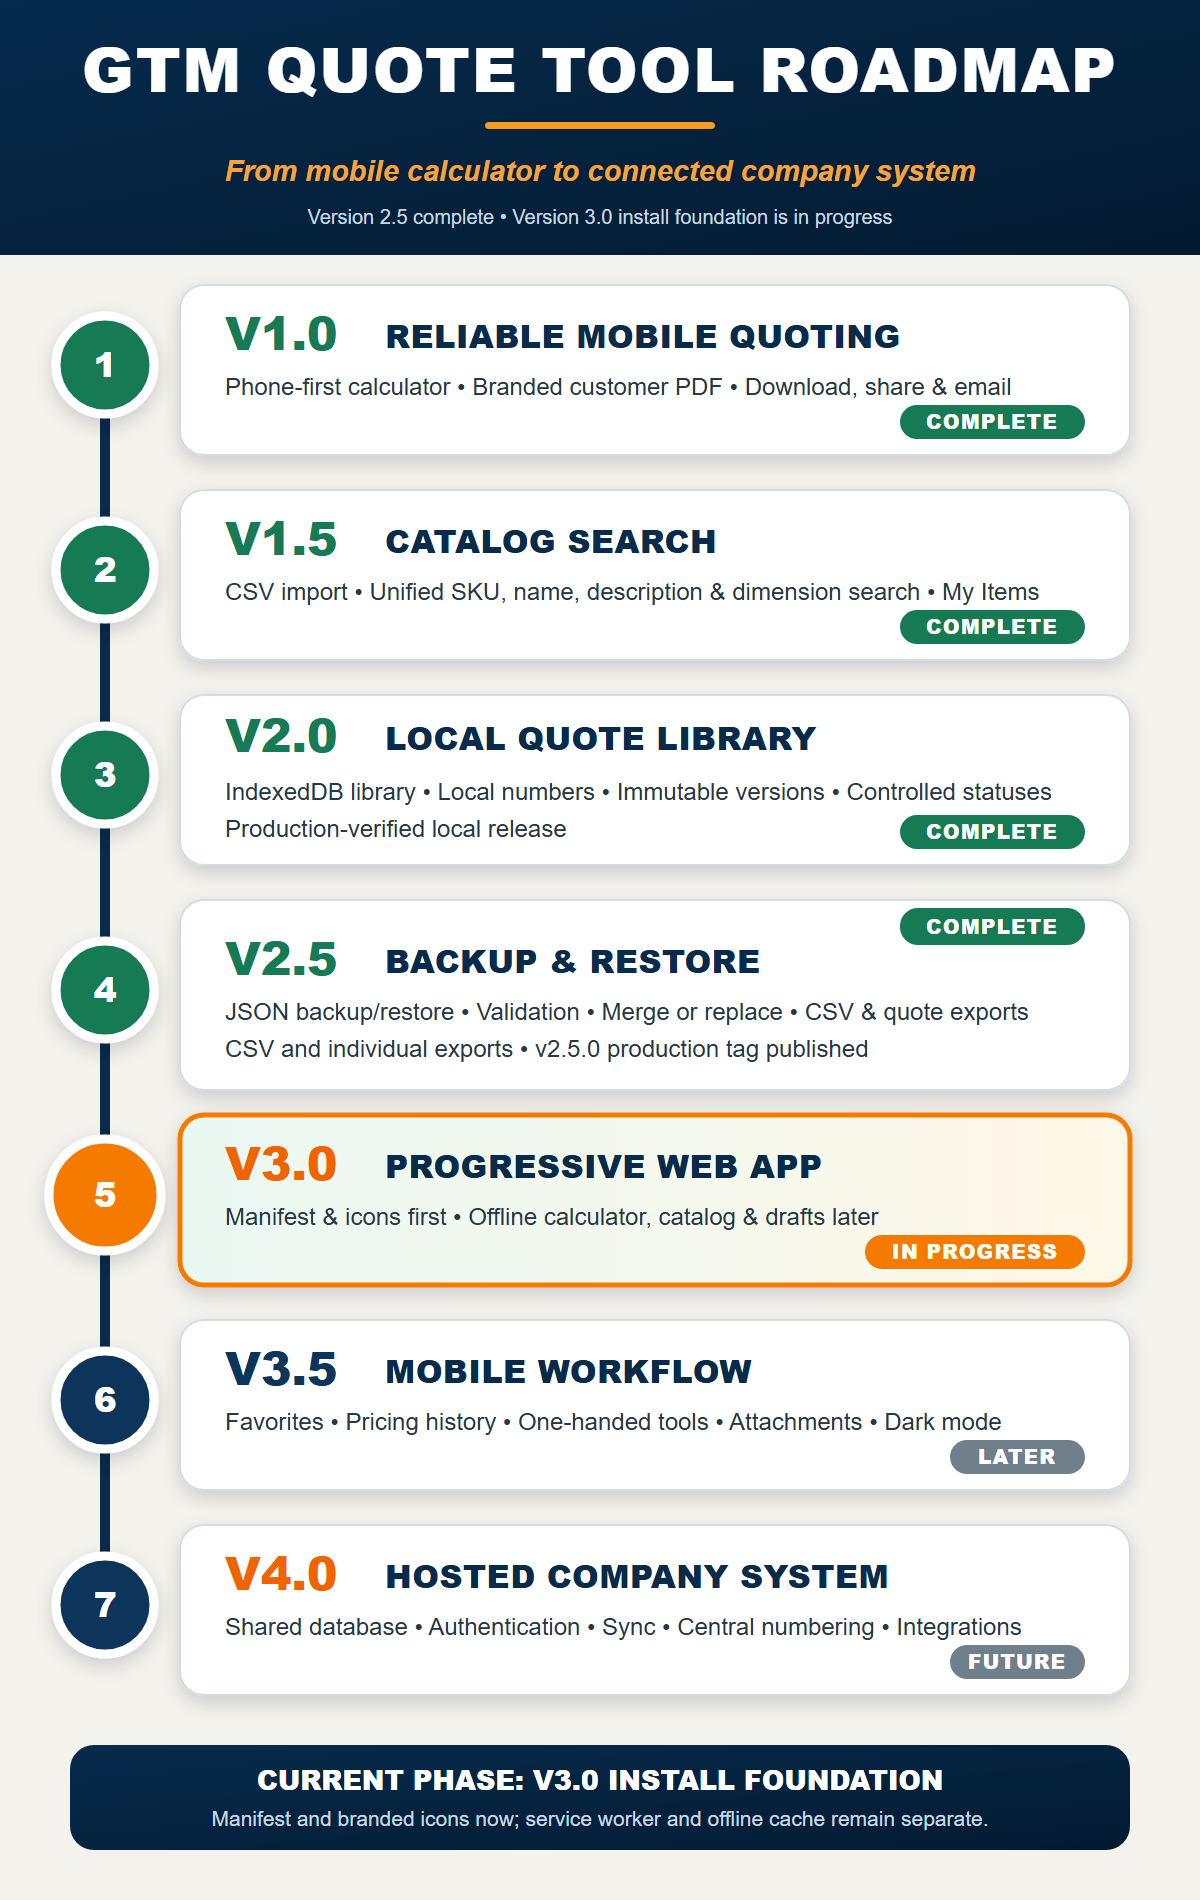
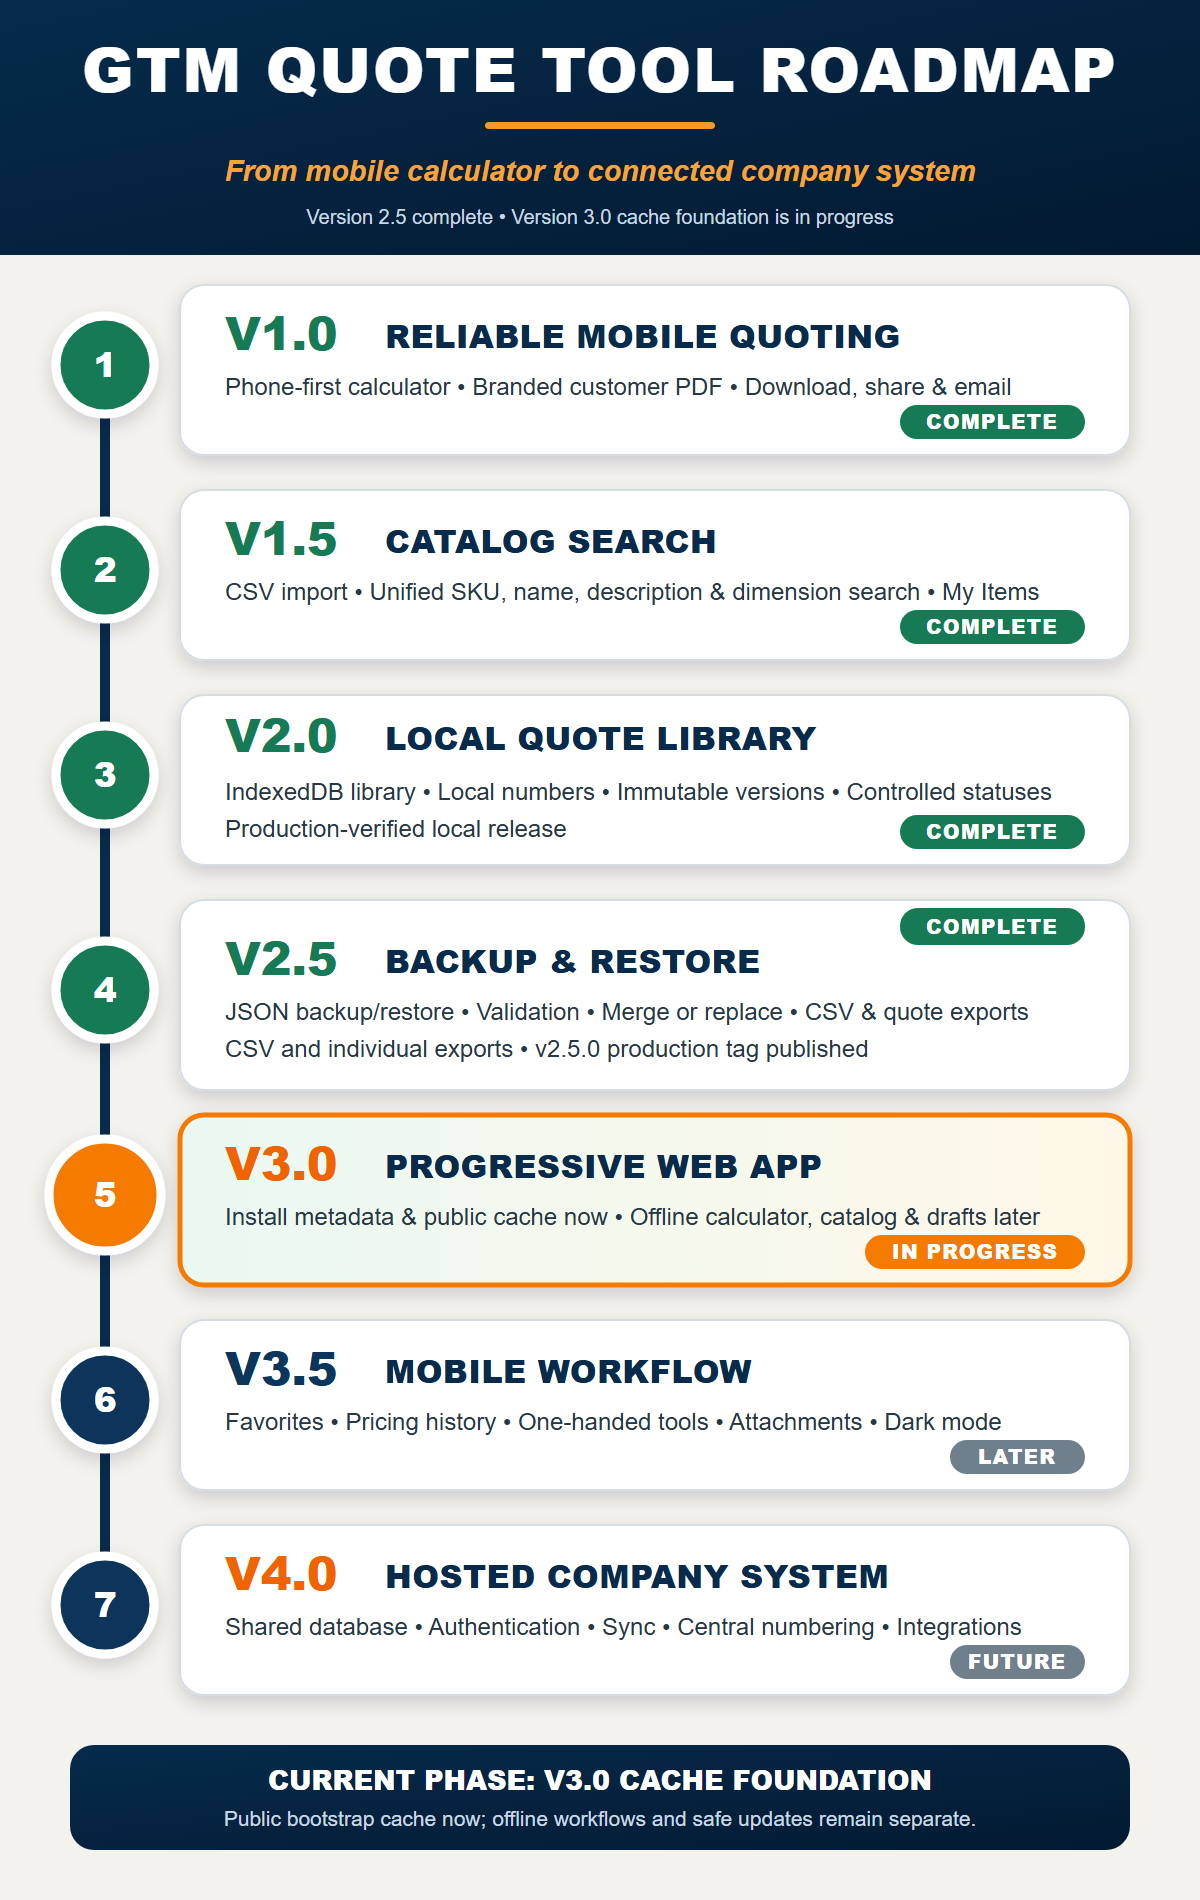
Add public service worker cache policy

diff --git a/tests/compat/quote-library-ui.spec.js b/tests/compat/quote-library-ui.spec.js
@@ -24,7 +24,7 @@ test('adds, saves, reloads, duplicates, searches, and recalls a local draft cust
   await fillQuoteCustomer(page);
   const library = await openLibrary(page);
   await library.locator('#addCurrentToLibrary').click();
-  await expect(library.locator('#quoteLibraryStatus')).toContainText('added as an unnumbered draft');
+  await expect(library.locator('#quoteLibraryStatus')).toContainText('added as an unnumbered draft', { timeout: 10000 });
   await expect(library.locator('.library-card h3')).toHaveText('Acme Packaging');
   expect(await page.evaluate(() => JSON.parse(localStorage.getItem('gtm_quote_calculator_v1')).customerName)).toBe('Acme Packaging');
   expect(await page.evaluate(() => document.documentElement.scrollWidth <= document.documentElement.clientWidth)).toBe(true);
@@ -131,7 +131,7 @@ test('warns instead of overwriting a library draft changed by another writer', a
   await fillQuoteCustomer(page, 'Conflict Test Customer');
   const library = await openLibrary(page);
   await library.locator('#addCurrentToLibrary').click();
-  await expect(library.locator('#quoteLibraryStatus')).toContainText('added as an unnumbered draft');
+  await expect(library.locator('#quoteLibraryStatus')).toContainText('added as an unnumbered draft', { timeout: 10000 });
   const quoteId = await library.locator('#addCurrentToLibrary').getAttribute('data-bound-quote-id');
   expect(quoteId).toBeTruthy();
 
@@ -169,13 +169,23 @@ test('confirms before Reopen discards dirty edits to the same draft', async ({ p
   await page.getByRole('button', { name: 'Quote', exact: true }).click();
   await page.locator('#buyerPhone').fill('916-555-9999');
   await openLibrary(page);
+  await expect(library.locator('#quoteLibrarySummary')).toContainText('unsaved', { timeout: 10000 });
 
-  page.once('dialog', (dialog) => dialog.dismiss());
+  await page.evaluate(() => {
+    document.body.dataset.reopenConfirmationAsked = 'false';
+    window.confirm = () => {
+      document.body.dataset.reopenConfirmationAsked = 'true';
+      return false;
+    };
+  });
   await library.getByRole('button', { name: 'Reopen' }).click();
+  expect(await page.locator('body').getAttribute('data-reopen-confirmation-asked')).toBe('true');
   await expect(page.locator('#quotesWorkspace')).toBeVisible();
   await expect(page.locator('#buyerPhone')).toHaveValue('916-555-9999');
 
-  page.once('dialog', (dialog) => dialog.accept());
+  await page.evaluate(() => {
+    window.confirm = () => true;
+  });
   await library.getByRole('button', { name: 'Reopen' }).click();
   await expect(page.locator('#quoteWorkspace')).toBeVisible();
   await expect(page.locator('#buyerPhone')).toHaveValue('916-555-0123');

diff --git a/tests/service-worker-cache-policy.test.js b/tests/service-worker-cache-policy.test.js
@@ -1,0 +1,61 @@
+import { afterEach, describe, expect, it, vi } from 'vitest';
+
+const workerPath = new URL('../sw.js', import.meta.url);
+
+async function loadWorker({ cacheNames = [] } = {}) {
+  const listeners = new Map();
+  const addAll = vi.fn().mockResolvedValue(undefined);
+  const remove = vi.fn().mockResolvedValue(true);
+
+  globalThis.self = {
+    addEventListener(type, listener) {
+      listeners.set(type, listener);
+    }
+  };
+  globalThis.caches = {
+    open: vi.fn().mockResolvedValue({ addAll }),
+    keys: vi.fn().mockResolvedValue(cacheNames),
+    delete: remove
+  };
+
+  await import(`${workerPath.href}?test=${crypto.randomUUID()}`);
+  return { listeners, addAll, remove };
+}
+
+afterEach(() => {
+  delete globalThis.self;
+  delete globalThis.caches;
+});
+
+describe('Version 3 application-shell cache policy', () => {
+  it('precaches only public static bootstrap assets and bypasses every fetch in this slice', async () => {
+    const { listeners, addAll } = await loadWorker();
+    const waitUntil = vi.fn();
+
+    listeners.get('install')({ waitUntil });
+    await waitUntil.mock.calls[0][0];
+
+    expect(addAll).toHaveBeenCalledWith(expect.arrayContaining([
+      '/gtm-calc/',
+      '/gtm-calc/manifest.webmanifest',
+      '/gtm-calc/assets/pwa/gtm-calc-192.png',
+      '/gtm-calc/assets/pwa/gtm-calc-maskable-512.png'
+    ]));
+    const cachedUrls = addAll.mock.calls[0][0].join('\n');
+    expect(cachedUrls).not.toMatch(/(?:\.pdf(?:$|\?)|\/backup(?:\/|$)|mailto:)/i);
+    expect(listeners.has('fetch')).toBe(false);
+  });
+
+  it('deletes only retired application-owned caches during activation', async () => {
+    const { listeners, remove } = await loadWorker({
+      cacheNames: ['gtm-calc-app-shell-v0', 'gtm-calc-app-shell-v1', 'third-party-cache']
+    });
+    const waitUntil = vi.fn();
+
+    listeners.get('activate')({ waitUntil });
+    await waitUntil.mock.calls[0][0];
+
+    expect(remove).toHaveBeenCalledTimes(1);
+    expect(remove).toHaveBeenCalledWith('gtm-calc-app-shell-v0');
+  });
+});

diff --git a/tests/release-metadata.test.js b/tests/release-metadata.test.js
@@ -6,13 +6,13 @@ function read(path) {
   return readFileSync(new URL(`../${path}`, import.meta.url), 'utf8');
 }
 
-const buildLabel = `v3.0.0 ${String.fromCharCode(0x00b7)} install-metadata.1`;
+const buildLabel = `v3.0.0 ${String.fromCharCode(0x00b7)} shell-cache.2`;
 
 describe('Version 3 development metadata', () => {
-  it('keeps the Version 3 install-metadata marker and package version aligned', () => {
+  it('keeps the Version 3 cache-policy marker and package version aligned', () => {
     const packageMetadata = JSON.parse(read('package.json'));
     expect(APP_BUILD_LABEL).toBe(buildLabel);
-    expect(packageMetadata.version).toBe('3.0.0-alpha.1');
+    expect(packageMetadata.version).toBe('3.0.0-alpha.2');
     expect(APP_RELEASE_VERSION).toBe(packageMetadata.version);
   });
 
@@ -22,11 +22,11 @@ describe('Version 3 development metadata', () => {
     expect(read('docs/CURRENT_STATE.md')).toContain(buildLabel);
     expect(read('docs/PRODUCT_ROADMAP.md')).toContain('Version 2.0 is complete');
     expect(read('docs/PRODUCT_ROADMAP.md')).toContain('Status (2026-08-06): Complete.');
-    expect(read('docs/PRODUCT_ROADMAP.md')).toContain('Status (2026-08-06): In progress.');
+    expect(read('docs/PRODUCT_ROADMAP.md')).toContain('Status (2026-08-07): In progress.');
     expect(read('docs/V2_IMPLEMENTATION_PLAN.md')).toContain('Status: complete.');
     expect(read('docs/V25_IMPLEMENTATION_PLAN.md')).toContain('Status: complete after owner acceptance');
     expect(read('build-docs/OPEN_ITEMS.md')).toContain('Version 2.5 backup and restore');
-    expect(read('docs/assets/gtm-quote-tool-roadmap.svg')).toContain('CURRENT PHASE: V3.0 INSTALL FOUNDATION');
+    expect(read('docs/assets/gtm-quote-tool-roadmap.svg')).toContain('CURRENT PHASE: V3.0 CACHE FOUNDATION');
     expect(read('docs/assets/gtm-quote-tool-roadmap.svg')).toContain('IN PROGRESS');
   });
 });

diff --git a/tests/service-worker-registration.test.js b/tests/service-worker-registration.test.js
@@ -1,0 +1,45 @@
+import { describe, expect, it, vi } from 'vitest';
+import {
+  SERVICE_WORKER_SCOPE,
+  SERVICE_WORKER_URL,
+  canRegisterServiceWorker,
+  registerApplicationServiceWorker
+} from '../js/pwa/service-worker-registration.js';
+
+describe('service-worker registration', () => {
+  it('uses the GitHub Pages scope and bypasses unsupported browsers', async () => {
+    expect(SERVICE_WORKER_SCOPE).toBe('/gtm-calc/');
+    expect(SERVICE_WORKER_URL).toBe('/gtm-calc/sw.js');
+    expect(canRegisterServiceWorker({})).toBe(false);
+    await expect(registerApplicationServiceWorker({ navigatorReference: {} })).resolves.toEqual({
+      registered: false,
+      reason: 'unsupported'
+    });
+  });
+
+  it('registers without blocking normal application use when the browser supports workers', async () => {
+    const registration = { scope: 'https://example.test/gtm-calc/' };
+    const register = vi.fn().mockResolvedValue(registration);
+
+    await expect(registerApplicationServiceWorker({
+      navigatorReference: { serviceWorker: { register } }
+    })).resolves.toEqual({ registered: true, registration });
+
+    expect(register).toHaveBeenCalledWith('/gtm-calc/sw.js', {
+      scope: '/gtm-calc/',
+      updateViaCache: 'none'
+    });
+  });
+
+  it('reports registration errors without throwing', async () => {
+    const error = new Error('blocked');
+    const warn = vi.fn();
+
+    await expect(registerApplicationServiceWorker({
+      navigatorReference: { serviceWorker: { register: vi.fn().mockRejectedValue(error) } },
+      logger: { warn }
+    })).resolves.toMatchObject({ registered: false, reason: 'failed', error });
+
+    expect(warn).toHaveBeenCalledOnce();
+  });
+});

diff --git a/tests/source-pages/direct-source.spec.js b/tests/source-pages/direct-source.spec.js
@@ -20,10 +20,18 @@ test('runs the untransformed GitHub Pages source tree at the repository base pat
   const manifest = await manifestResponse.json();
   expect(manifest.start_url).toBe('/gtm-calc/');
   expect(manifest.scope).toBe('/gtm-calc/');
-  expect(await page.evaluate(async () => {
-    if (!('serviceWorker' in navigator)) return [];
-    return (await navigator.serviceWorker.getRegistrations()).map((registration) => registration.scope);
-  })).toEqual([]);
+  const serviceWorker = await page.evaluate(async () => {
+    if (!('serviceWorker' in navigator)) return null;
+    const registration = await navigator.serviceWorker.ready;
+    const cacheNames = await caches.keys();
+    const shellCache = await caches.open(cacheNames.find((name) => name.startsWith('gtm-calc-app-shell-')));
+    const cachedPaths = (await shellCache.keys()).map((request) => new URL(request.url).pathname);
+    return { scope: new URL(registration.scope).pathname, cacheNames, cachedPaths };
+  });
+  expect(serviceWorker).toMatchObject({ scope: '/gtm-calc/' });
+  expect(serviceWorker.cacheNames).toContain('gtm-calc-app-shell-v1');
+  expect(serviceWorker.cachedPaths).toContain('/gtm-calc/manifest.webmanifest');
+  expect(serviceWorker.cachedPaths.join('\n')).not.toMatch(/(?:\.pdf(?:$|\?)|\/backup(?:\/|$)|mailto:)/i);
   await expect(page.locator('#appNavigation [aria-current="page"]')).toHaveCount(1);
   await page.locator('#customerName').fill('Direct Source Customer');
   await page.getByRole('button', { name: 'Library', exact: true }).click();

diff --git a/tests/production/pages-build.spec.js b/tests/production/pages-build.spec.js
@@ -23,10 +23,18 @@ test('serves the production artifact from /gtm-calc/ and preserves core local be
   for (const icon of manifest.icons) {
     expect((await page.request.get(`./${icon.src}`)).ok()).toBe(true);
   }
-  expect(await page.evaluate(async () => {
-    if (!('serviceWorker' in navigator)) return [];
-    return (await navigator.serviceWorker.getRegistrations()).map((registration) => registration.scope);
-  })).toEqual([]);
+  const serviceWorker = await page.evaluate(async () => {
+    if (!('serviceWorker' in navigator)) return null;
+    const registration = await navigator.serviceWorker.ready;
+    const cacheNames = await caches.keys();
+    const shellCache = await caches.open(cacheNames.find((name) => name.startsWith('gtm-calc-app-shell-')));
+    const cachedPaths = (await shellCache.keys()).map((request) => new URL(request.url).pathname);
+    return { scope: new URL(registration.scope).pathname, cacheNames, cachedPaths };
+  });
+  expect(serviceWorker).toMatchObject({ scope: '/gtm-calc/' });
+  expect(serviceWorker.cacheNames).toContain('gtm-calc-app-shell-v1');
+  expect(serviceWorker.cachedPaths).toContain('/gtm-calc/manifest.webmanifest');
+  expect(serviceWorker.cachedPaths.join('\n')).not.toMatch(/(?:\.pdf(?:$|\?)|\/backup(?:\/|$)|mailto:)/i);
   await page.locator('#itemName').fill('Production carton');
   await page.locator('#quantity').fill('10');
   await page.locator('#unitCost').fill('1.25');

diff --git a/sw.js b/sw.js
@@ -1,0 +1,33 @@
+/* Version 3 PR 2: cache bootstrap only. Offline fetch handling arrives in PR 3. */
+const APP_SCOPE = '/gtm-calc/';
+const CACHE_PREFIX = 'gtm-calc-app-shell-';
+const CACHE_NAME = `${CACHE_PREFIX}v1`;
+
+// Only static, public application files belong here. Never add generated PDFs,
+// backups, mailto URLs, customer data, or application storage exports.
+const APP_SHELL_URLS = [
+  APP_SCOPE,
+  `${APP_SCOPE}manifest.webmanifest`,
+  `${APP_SCOPE}assets/pwa/gtm-calc-180.png`,
+  `${APP_SCOPE}assets/pwa/gtm-calc-192.png`,
+  `${APP_SCOPE}assets/pwa/gtm-calc-512.png`,
+  `${APP_SCOPE}assets/pwa/gtm-calc-maskable-512.png`
+];
+
+function isRetiredApplicationCache(cacheName) {
+  return cacheName.startsWith(CACHE_PREFIX) && cacheName !== CACHE_NAME;
+}
+
+if (typeof self !== 'undefined' && typeof self.addEventListener === 'function') {
+  self.addEventListener('install', (event) => {
+    event.waitUntil(caches.open(CACHE_NAME).then((cache) => cache.addAll(APP_SHELL_URLS)));
+  });
+
+  self.addEventListener('activate', (event) => {
+    event.waitUntil(
+      caches.keys().then((cacheNames) => Promise.all(
+        cacheNames.filter(isRetiredApplicationCache).map((cacheName) => caches.delete(cacheName))
+      ))
+    );
+  });
+}

diff --git a/tests/compat/quote-exports.spec.js b/tests/compat/quote-exports.spec.js
@@ -4,7 +4,7 @@ test.describe('Version 2.5 reporting exports in supported browsers', () => {
   test('keeps RFC 4180 quoting, formula protection, Unicode, and deterministic names in-browser', async ({ page }) => {
     const outbound = [];
     page.on('request', (request) => {
-      if (['fetch', 'xhr', 'websocket', 'eventsource'].includes(request.resourceType())) outbound.push(request.url());
+      if (['fetch', 'xhr', 'websocket', 'eventsource'].includes(request.resourceType()) && !request.url().endsWith('/sw.js')) outbound.push(request.url());
     });
     await page.goto('./');
 
@@ -79,7 +79,7 @@ test.describe('Version 2.5 reporting exports in supported browsers', () => {
   test('Export workspace exposes local CSV report actions and reports requested downloads', async ({ page }) => {
     const outbound = [];
     page.on('request', (request) => {
-      if (['fetch', 'xhr', 'websocket', 'eventsource'].includes(request.resourceType())) outbound.push(request.url());
+      if (['fetch', 'xhr', 'websocket', 'eventsource'].includes(request.resourceType()) && !request.url().endsWith('/sw.js')) outbound.push(request.url());
     });
     await page.goto('./');
     await page.getByRole('button', { name: 'Export', exact: true }).click();

diff --git a/js/main.js b/js/main.js
@@ -25,6 +25,7 @@ import { createQuoteLibraryRepository } from './services/indexeddb-quote-reposit
 import { createQuoteExportService } from './services/quote-export-service.js';
 import { createPdfFile, sharePdf } from './services/share-service.js';
 import { ACTIVE_QUOTE_STORAGE_KEY, clearActiveQuote, loadActiveQuote, saveActiveQuote } from './services/active-quote-storage.js';
+import { registerApplicationServiceWorker } from './pwa/service-worker-registration.js';
 
 (function () {
   const STORAGE_KEY = ACTIVE_QUOTE_STORAGE_KEY;
@@ -119,6 +120,9 @@ import { ACTIVE_QUOTE_STORAGE_KEY, clearActiveQuote, loadActiveQuote, saveActive
   const quoteRepository = createQuoteLibraryRepository();
 
   document.getElementById('appVersion').textContent = APP_BUILD_LABEL;
+  // Vite's development server is not a release artifact; source Pages and built
+  // artifacts still register the worker and are covered by dedicated smoke tests.
+  if (!import.meta.env?.DEV) void registerApplicationServiceWorker();
 
   function getFreightMode() {
     const checked = itemForm.querySelector('input[name="freightMode"]:checked');

diff --git a/js/pwa/service-worker-registration.js b/js/pwa/service-worker-registration.js
@@ -1,0 +1,26 @@
+export const SERVICE_WORKER_SCOPE = '/gtm-calc/';
+export const SERVICE_WORKER_URL = `${SERVICE_WORKER_SCOPE}sw.js`;
+
+export function canRegisterServiceWorker(navigatorReference = globalThis.navigator) {
+  return Boolean(navigatorReference?.serviceWorker?.register);
+}
+
+export async function registerApplicationServiceWorker({
+  navigatorReference = globalThis.navigator,
+  logger = globalThis.console
+} = {}) {
+  if (!canRegisterServiceWorker(navigatorReference)) {
+    return { registered: false, reason: 'unsupported' };
+  }
+
+  try {
+    const registration = await navigatorReference.serviceWorker.register(SERVICE_WORKER_URL, {
+      scope: SERVICE_WORKER_SCOPE,
+      updateViaCache: 'none'
+    });
+    return { registered: true, registration };
+  } catch (error) {
+    logger?.warn?.('GTM Calc service worker registration failed; normal online use remains available.', error);
+    return { registered: false, reason: 'failed', error };
+  }
+}

diff --git a/tests/compat/quote-library-scale.spec.js b/tests/compat/quote-library-scale.spec.js
@@ -19,7 +19,7 @@ async function fillQuoteCustomer(page, name) {
 test('progressively reveals 100 drafts while search reaches a long Unicode tail record', async ({ page }) => {
   await page.setViewportSize({ width: 320, height: 568 });
   await page.goto('./');
-  await expect(page.locator('#quoteLibrarySummary')).toHaveText('0 quotes on this device');
+  await expect(page.locator('#quoteLibrarySummary')).toHaveText('0 quotes on this device', { timeout: 10000 });
   await page.evaluate(async () => {
     const { createQuoteLibraryRepository } = await import('/gtm-calc/js/services/indexeddb-quote-repository.js');
     let id = 0;

diff --git a/tests/compat/backup-restore-inspection.spec.js b/tests/compat/backup-restore-inspection.spec.js
@@ -33,7 +33,7 @@ async function seedSavedQuote(page) {
   await page.locator('#itemSubmit').click();
   await page.getByRole('button', { name: 'Library', exact: true }).click();
   await page.locator('#addCurrentToLibrary').click();
-  await expect(page.locator('#quoteLibraryStatus')).toContainText('added as an unnumbered draft');
+  await expect(page.locator('#quoteLibraryStatus')).toContainText('added as an unnumbered draft', { timeout: 10000 });
 }
 
 async function createBackupFixture(page) {
